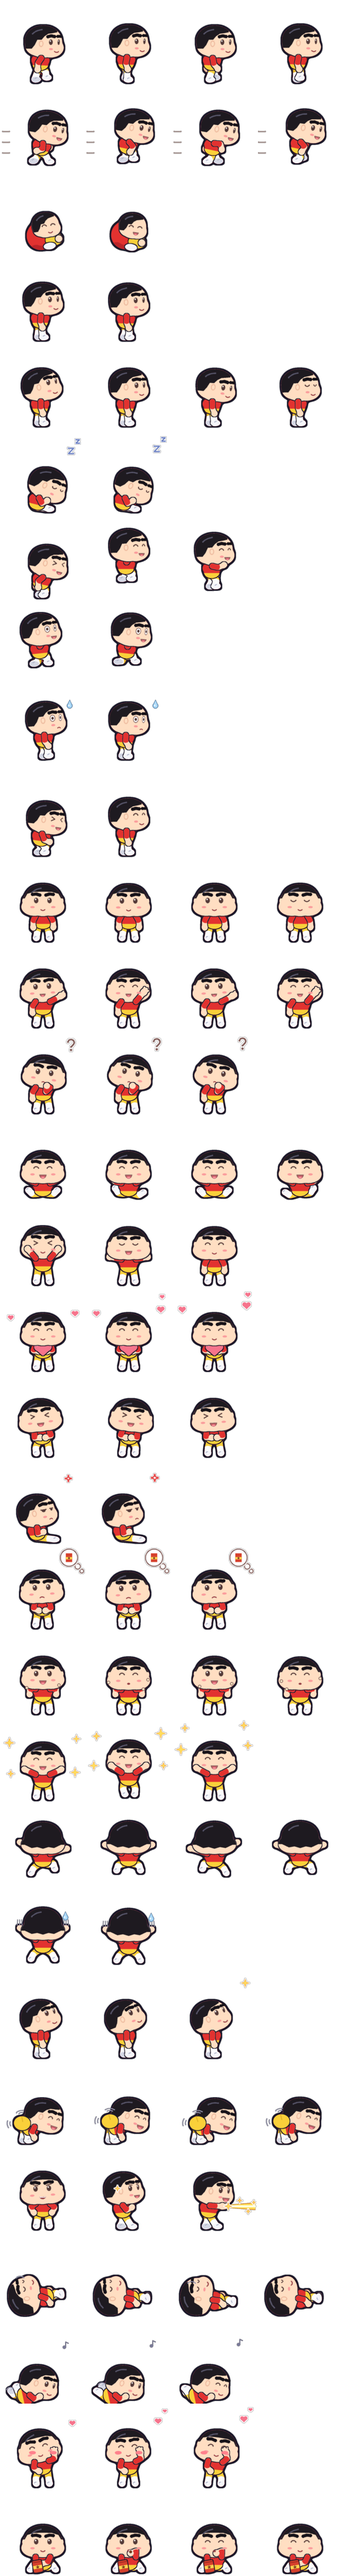
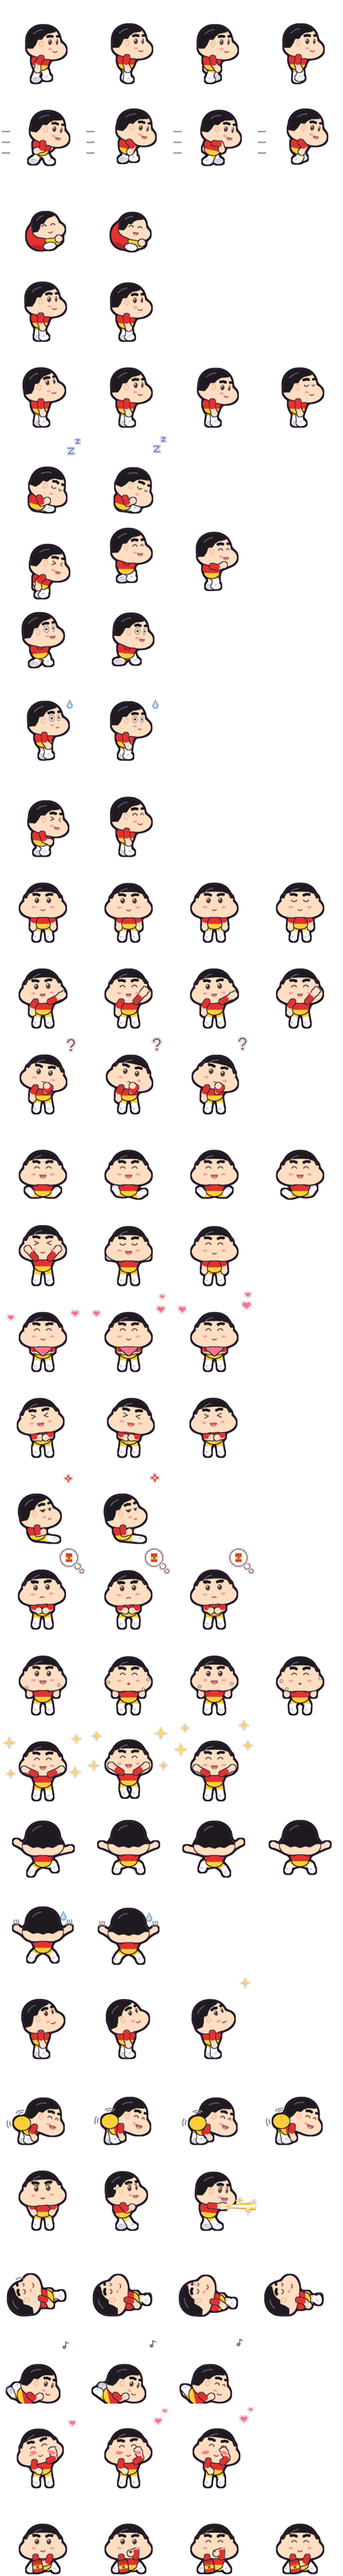
art(jjanggu): gap between thinner brows, fat-cheeked Shin-chan head
Claude-Session: https://claude.ai/code/session_01QTKFeh88WdMrEuDr7Y72ss

diff --git a/tools/draw_jjanggu.py b/tools/draw_jjanggu.py
@@ -34,26 +34,31 @@ BEAM, BEAM_CORE, BEAM_EDGE = (255, 228, 96), (255, 255, 232), (240, 160, 50)  # 
 WIGGLE = (150, 150, 176)  # 🍑 씰룩 자국
 
 
+def lobe(hx, hy, hrx, hry, cx, cy, rx, ry):
+    """머리 반지름 배로 잡은 볼 덩이 타원 (가운데 (cx, cy), 반지름 (rx, ry))."""
+    return E(hx + (cx - rx) * hrx, hy + (cy - ry) * hry, hx + (cx + rx) * hrx, hy + (cy + ry) * hry)
+
+
 def jj_hair(view_, hx, hy, hrx, hry, q):
     """감자 머리 + 짧은 까만 머리: 아래쪽 볼이 통통하게 부풀어 머리가 아래로 넓음 (앞·뒷모습은 양 볼, 옆모습은 앞 볼·턱).
     머리는 정수리를 덮는 짧은 모자 모양 (이마 위 일자 앞머리, 옆모습은 귀 뒤로 뒤통수까지). → (머리 도형에 더할 도형, 삐죽 조각, 머리 안 무늬)."""
     sky = hy - hry * 2.0
     shine = [L(dp.arc(hx, hy, hrx * 0.76, hry * 0.76, 218, 262, 8), 2.0)]
     if view_ == "side":
-        cheek = [E(hx + 0.38 * hrx - 0.72 * hrx, hy + 0.36 * hry - 0.62 * hry, hx + 0.38 * hrx + 0.72 * hrx, hy + 0.36 * hry + 0.62 * hry),
-                 E(hx - 0.3 * hrx - 0.66 * hrx, hy + 0.3 * hry - 0.6 * hry, hx - 0.3 * hrx + 0.66 * hrx, hy + 0.3 * hry + 0.6 * hry)]
+        cheek = [lobe(hx, hy, hrx, hry, 0.54, 0.5, 0.84, 0.6), lobe(hx, hy, hrx, hry, -0.26, 0.36, 0.74, 0.6),
+                 lobe(hx, hy, hrx, hry, 0.12, 0.6, 0.72, 0.48)]
         z = [(0.72, -0.62), (0.5, -0.56), (0.24, -0.5), (0.04, -0.34), (-0.1, -0.12), (-0.34, -0.1), (-0.46, 0.22), (-0.62, 0.46), (-1.6, 0.5)]
         edge = [(hx + a * hrx, hy + b * hry) for a, b in z]
         return cheek, [], [([T((hx + 0.72 * hrx, sky), *edge, (hx - 1.6 * hrx, sky))], HAIR), (shine, HAIR_HI)]
-    cheeks = [E(hx + sd * 0.44 * hrx - 0.72 * hrx, hy + 0.42 * hry - 0.56 * hry, hx + sd * 0.44 * hrx + 0.72 * hrx, hy + 0.42 * hry + 0.56 * hry)
-              for sd in (-1, 1)]
+    k = 0.9 if view_ == "back" else 1.0  # 뒷모습은 볼이 조금 덜 보임
+    cheeks = [lobe(hx, hy, hrx, hry, sd * 0.52 * k, 0.5, 0.84 * k, 0.58) for sd in (-1, 1)] + [lobe(hx, hy, hrx, hry, 0.0, 0.6, 0.8, 0.46)]
     if view_ == "back":
         z = [(1.6, 0.4), (0.96, 0.42), (0.6, 0.62), (0.3, 0.56), (0.0, 0.66), (-0.3, 0.56), (-0.6, 0.62), (-0.96, 0.42), (-1.6, 0.4)]
         edge = [(hx + a * hrx, hy + b * hry) for a, b in z]
         return cheeks, [], [([T(*edge, (hx - 1.6 * hrx, sky), (hx + 1.6 * hrx, sky))], HAIR), (shine, HAIR_HI)]
     z = [(1.6, -0.1), (0.98, -0.12), (0.84, -0.4), (0.5, -0.52), (0.0, -0.54), (-0.5, -0.52), (-0.84, -0.4), (-0.98, -0.12), (-1.6, -0.1)]
     edge = [(hx + a * hrx, hy + b * hry) for a, b in z]
-    ears = [E(hx + sd * hrx - 3.2, hy + 0.02 * hry - 4.4, hx + sd * hrx + 3.2, hy + 0.02 * hry + 4.4) for sd in (-1, 1)]
+    ears = [E(hx + sd * hrx - 3.2, hy - 0.08 * hry - 4.4, hx + sd * hrx + 3.2, hy - 0.08 * hry + 4.4) for sd in (-1, 1)]
     return cheeks + ears, [], [([T(*edge, (hx - 1.6 * hrx, sky), (hx + 1.6 * hrx, sky))], HAIR), (shine, HAIR_HI)]
 
 
@@ -64,18 +69,18 @@ def brow(x0, y0, x1, y1, w):
 
 
 def jj_extra(view_, hx, hy, hrx, hry, far_eye, near_eye):
-    """아주 굵은 까만 눈썹 (짱구 얼굴의 상징): 앞모습 눈마다 두툼한 일자 눈썹, 옆모습은 가까운 눈썹 + 먼 눈썹 끝."""
-    w = 0.2 * hry
+    """아주 굵은 까만 눈썹 (짱구 얼굴의 상징): 앞모습 눈마다 두툼한 애벌레 눈썹 (가운데는 또렷이 떨어짐), 옆모습은 가까운 눈썹 + 먼 눈썹 끝."""
+    w = 0.17 * hry
     if view_ == "front":
         out = []
         for (ex, ey), sd in ((far_eye, -1), (near_eye, 1)):
-            y = ey - 0.36 * hry
-            out.append(brow(ex - 0.2 * hrx, y + sd * 0.0 + 0.5, ex + 0.2 * hrx, y - 0.5, w) if sd > 0 else brow(ex - 0.2 * hrx, y - 0.5, ex + 0.2 * hrx, y + 0.5, w))
+            y, cx = ey - 0.36 * hry, ex + sd * 0.03 * hrx
+            out.append(brow(cx - 0.16 * hrx, y + sd * 0.5, cx + 0.16 * hrx, y - sd * 0.5, w))
         return [(out, BROW)]
     if view_ == "side":
         (xf_, yf), (xn, yn) = far_eye, near_eye
-        return [([brow(xn - 0.17 * hrx, yn - 0.34 * hry, xn + 0.19 * hrx, yn - 0.36 * hry, w),
-                  L([(xf_ - 0.06 * hrx, yf - 0.36 * hry), (xf_ + 0.1 * hrx, yf - 0.37 * hry)], w * 0.9)], BROW)]
+        return [([brow(xn - 0.16 * hrx, yn - 0.34 * hry, xn + 0.13 * hrx, yn - 0.36 * hry, w),
+                  L([(xf_ + 0.0 * hrx, yf - 0.36 * hry), (xf_ + 0.1 * hrx, yf - 0.37 * hry)], w * 0.9)], BROW)]
     return []
 
 
@@ -111,7 +116,7 @@ def chocobi_bubble_fx(cx, cy, r=12.0):
 JJ_LOOK = wz.Look(hair=jj_hair, hair_col=HAIR, skin=SKIN, skin_shade=SKIN_SHADE, extra=jj_extra, food_fx=chocobi_bubble_fx, prop=no_wand,
                   robe=SHIRT, robe_far=SHIRT_FAR, robe_in=SHIRT_FAR, jumper=SHIRT, pants=SHORTS, pants_far=SHORTS_FAR, scarf=False,
                   skirt=False, sleeve=0.55, shorts=0.6, belt=SHORTS, socks=SOCKS, shoe=SHOE, shoe_far=SHOE_FAR, shoe_hi=SHOE_HI,
-                  dims=dict(hrx=1.1, hry=1.04, th=0.9, leg=0.78, arm=0.92, tw=0.98), cap_lift=0.05, eye_k=0.8)
+                  dims=dict(hrx=0.98, hry=1.04, th=0.9, leg=0.78, arm=0.92, tw=0.98), cap_lift=0.05, eye_k=0.8, back_reach=8.0)
 
 
 def s_():
